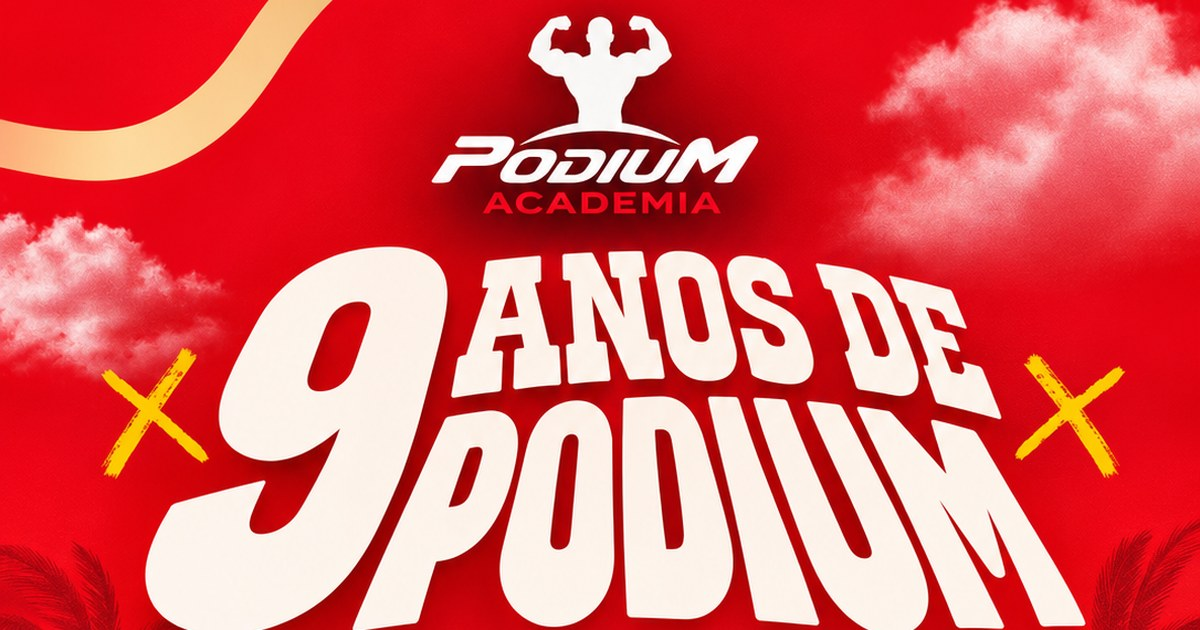
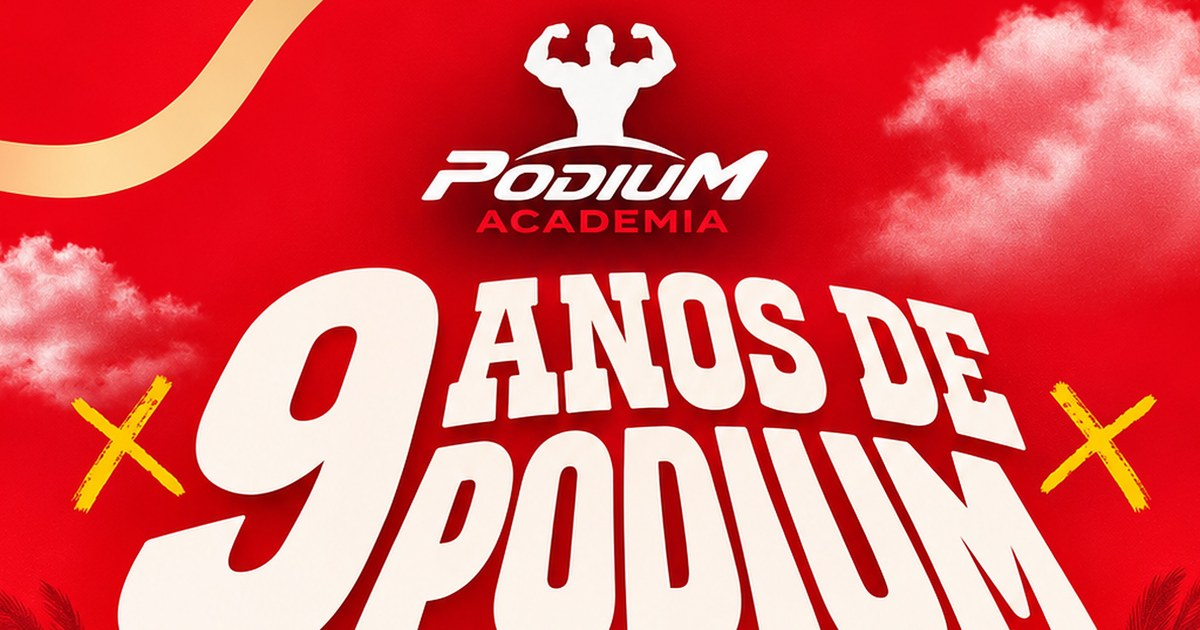
Site baseado no flyer escolhido (calendário)
Claude-Session: https://claude.ai/code/session_01DKUzZ6giRhbeCqJDBAXXs6

diff --git a/public/index.html b/public/index.html
@@ -4,188 +4,208 @@
 <meta charset="utf-8">
 <meta name="viewport" content="width=device-width,initial-scale=1,viewport-fit=cover">
 <title>9 anos de Podium</title>
-<meta name="description" content="Confraternização de fim de ano da Podium Academia. Domingo, 13 de dezembro, a partir das 14h, no Boa Vista (BH). Garanta seu ingresso.">
-<meta name="theme-color" content="#B5121B">
-<meta property="og:title" content="9 anos de Podium">
-<meta property="og:description" content="Confraternização de fim de ano da Podium Academia. Domingo, 13 de dezembro, a partir das 14h. Garanta seu ingresso!">
+<meta name="description" content="Confraternização de fim de ano da Podium Academia. Domingo, 13 de dezembro, a partir das 14h, no Boa Vista (BH). Churrasco + tropeiro e DJ. Garanta seu ingresso.">
+<meta name="theme-color" content="#D20410">
+<meta property="og:title" content="9 anos de Podium · Vendas abertas!">
+<meta property="og:description" content="Confraternização de fim de ano da Podium Academia. Domingo, 13 de dezembro, 14h, Boa Vista (BH). Garanta seu ingresso!">
 <meta property="og:image" content="https://podium9anos.netlify.app/assets/og.jpg">
 <link rel="icon" href="/assets/logo-sm.png">
 <link rel="preconnect" href="https://fonts.googleapis.com"><link rel="preconnect" href="https://fonts.gstatic.com" crossorigin>
-<link href="https://fonts.googleapis.com/css2?family=Bricolage+Grotesque:opsz,wdth,wght@12..96,75..100,300..800&display=swap" rel="stylesheet">
+<link href="https://fonts.googleapis.com/css2?family=Titan+One&family=Montserrat:ital,wght@0,500;0,600;0,700;0,800;0,900;1,800;1,900&display=swap" rel="stylesheet">
+<link rel="preload" as="image" href="/assets/flyer-topo.jpg">
 <link rel="stylesheet" href="/assets/app.css">
 <link rel="stylesheet" href="/assets/festa.css">
 <style>
 body.festa{
-  --rubi:#B5121B; --rubi2:#E0141F; --carvao:#231815; --giz:#F1EFEB; --po:#D9D4CE; --ouro:#F2B33D; --texto2:#5C524C;
-  background:var(--giz); color:var(--carvao);
-  font-family:"Bricolage Grotesque",system-ui,sans-serif; font-optical-sizing:auto;
+  --red:#D20410; --red-dk:#8E0610; --cream:#FFF3E2; --ink:#16110E; --yellow:#FFC72C;
+  /* nomes usados pelo formulário (festa.css) */
+  --rubi:#D20410; --carvao:#16110E; --giz:#FFF3E2; --po:#E7D7C2; --texto2:#5a4a40;
+  background:#A80309; color:var(--cream); font-family:Montserrat,Arial,sans-serif;
 }
-.cond{font-variation-settings:"wdth" 75;font-weight:800;letter-spacing:-.01em}
-:focus-visible{outline:3px solid var(--ouro);outline-offset:3px}
+.mx{font-family:Montserrat,sans-serif;font-weight:900;font-style:italic;text-transform:uppercase}
+.mb{font-family:Montserrat,sans-serif;font-weight:800;text-transform:uppercase}
+.tt{font-family:"Titan One",sans-serif;font-weight:400}
+:focus-visible{outline:3px solid var(--yellow);outline-offset:3px}
 
-/* abertura: o 9 conta de 1 a 9 */
-#intro{position:fixed;inset:0;z-index:100;background:var(--rubi);color:var(--giz);display:grid;place-items:center;cursor:pointer}
-#intro .in{display:flex;flex-direction:column;align-items:center;gap:6px}
-#intro img{width:120px;opacity:0;animation:fade .5s ease .1s forwards}
-#intro .num{font-size:min(56vw,300px);line-height:.85}
-#intro .sub{font-size:20px;opacity:0;animation:fade .5s ease 1.1s forwards}
-#intro .skip{position:absolute;top:max(14px,env(safe-area-inset-top));right:16px;font-size:13px;opacity:.75}
+/* abertura */
+#intro{position:fixed;inset:0;z-index:100;display:grid;place-items:center;cursor:pointer;background:radial-gradient(ellipse at 50% 40%,#F10717,#B6040D 75%)}
+#intro .stack{display:flex;flex-direction:column;align-items:center;gap:16px}
+#intro img{width:min(56vw,230px);opacity:0;transform:scale(.6);animation:pop .8s cubic-bezier(.2,1.6,.4,1) .2s forwards}
+#intro .pill{background:var(--ink);color:var(--cream);padding:9px 24px;border-radius:999px;font-size:clamp(18px,5.4vw,24px);opacity:0;animation:fade .4s ease .9s forwards}
+#intro .skip{position:absolute;top:max(14px,env(safe-area-inset-top));right:16px;font-size:12px;opacity:.75}
 #intro.out{animation:lift .7s cubic-bezier(.7,0,.2,1) forwards}
+@keyframes pop{to{opacity:1;transform:none}}
 @keyframes fade{to{opacity:1}}
-@keyframes lift{to{transform:translateY(-100%)}}
+@keyframes lift{to{transform:translateY(-110%)}}
 
-/* coluna */
-.col{max-width:560px;margin:0 auto;background:var(--giz);min-height:100vh}
-@media (min-width:600px){body.festa{background:#E6E3DE}.col{box-shadow:0 0 0 1px var(--po)}}
+/* página */
+.col{max-width:560px;margin:0 auto;position:relative;overflow:hidden;background:radial-gradient(ellipse 130% 55% at 50% 30%,#EE0617 0%,#D20410 55%,#B6040D 100%)}
+.hero{display:block;width:100%;height:auto;-webkit-mask-image:linear-gradient(#000 90%,transparent);mask-image:linear-gradient(#000 90%,transparent)}
+.palm{position:absolute;width:46%;opacity:.3;pointer-events:none}
+.pad{position:relative;padding:0 18px}
+.band{display:block;width:fit-content;margin:4px auto 0;background:linear-gradient(90deg,#F2DEC6,#FFF3E2 30%,#FFF3E2 70%,#F2DEC6);color:var(--ink);border-radius:8px;padding:9px 16px 8px;font-size:clamp(12.5px,3.8vw,18px);white-space:nowrap;box-shadow:0 4px 14px rgba(70,0,5,.3)}
 
-/* topo vermelho + pódio */
-.hero{background:var(--rubi);color:var(--giz);padding:22px 20px 0;overflow:hidden;position:relative}
-.hero .logo{width:118px}
-.tit{margin:26px 0 0;font-weight:800}
-.tit .nove{display:block;font-size:min(88vw,470px);line-height:.74;letter-spacing:-.04em;margin-left:-.04em;color:var(--giz)}
-.tit .resto{display:block;font-size:min(16vw,84px);line-height:.9;max-width:5.2em;margin-top:.08em}
-.lead{font-size:19px;line-height:1.45;margin-top:18px;max-width:30ch;color:rgba(241,239,235,.92)}
-.lead strong{font-weight:700;color:var(--giz)}
-.cta{display:block;width:100%;margin-top:24px;background:var(--giz);color:var(--rubi);border:0;border-radius:6px;padding:17px 18px;font:inherit;font-weight:800;font-size:19px;cursor:pointer;text-decoration:none;text-align:center;-webkit-tap-highlight-color:transparent;transition:transform .12s}
-.cta:active{transform:scale(.98)}
-.cta svg{width:22px;height:22px;flex:0 0 auto}
-.cta-note{font-size:14px;margin-top:10px;color:rgba(241,239,235,.78)}
+.info{display:grid;grid-template-columns:minmax(104px,34%) 1fr;gap:14px;margin-top:22px;align-items:start}
+.cal{background:var(--cream);color:var(--ink);border-radius:14px;overflow:hidden;text-align:center;box-shadow:0 8px 22px rgba(60,0,4,.35)}
+.cal .m{background:var(--ink);color:var(--cream);font-size:clamp(11px,3.4vw,17px);padding:8px 2px}
+.cal .d{font-size:clamp(52px,17vw,92px);line-height:1;color:var(--red);padding-top:4px}
+.cal .w{font-size:clamp(11px,3.3vw,15px);padding:0 4px 12px}
+.det{display:flex;flex-direction:column;gap:11px;min-width:0}
+.pill{display:inline-block;background:var(--ink);color:var(--cream);border-radius:999px;padding:8px 14px 7px;font-size:clamp(14px,4.6vw,26px);line-height:1;white-space:nowrap;align-self:flex-start;box-shadow:0 6px 16px rgba(40,0,0,.35)}
+.it{display:flex;align-items:center;gap:8px;font-weight:700;font-size:clamp(13px,3.9vw,17px);line-height:1.2}
+.ico{width:24px;height:24px;flex:0 0 auto;stroke:var(--yellow);fill:none;stroke-width:1.9;stroke-linecap:round;stroke-linejoin:round}
 
-.podio{display:grid;grid-template-columns:1fr 1.12fr 1fr;align-items:end;gap:6px;margin:44px -20px 0;padding:0 20px}
-.deg{border-radius:4px 4px 0 0;padding:14px 12px 0;transform-origin:bottom;animation:rise .8s cubic-bezier(.2,.9,.2,1) both}
-.deg p{font-weight:700;font-size:15px;line-height:1.2}
-.d2{background:var(--carvao);color:var(--giz);height:118px;animation-delay:3.15s}
-.d1{background:var(--giz);color:var(--carvao);height:176px;animation-delay:3s;position:relative}
-.d3{background:var(--carvao);color:var(--giz);height:88px;animation-delay:3.3s}
-.medalha{position:absolute;left:50%;top:-58px;transform:translateX(-50%);width:44px}
-@keyframes rise{from{transform:scaleY(0)}to{transform:scaleY(1)}}
-body.skip-intro .deg{animation-delay:.2s}
+.bar{margin-top:24px;background:var(--ink);border-radius:14px;padding:16px 14px}
+.bar h2{font-size:14px;letter-spacing:.06em;color:rgba(255,243,226,.75);text-align:center;margin-bottom:10px;font-weight:700}
+.cd{display:grid;grid-template-columns:repeat(4,minmax(0,1fr));text-align:center}
+.cd b{display:block;font-family:"Titan One",sans-serif;font-weight:400;font-size:clamp(26px,8vw,36px);line-height:1;color:var(--yellow)}
+.cd span{font-size:12px;font-weight:700;color:rgba(255,243,226,.8)}
 
-/* parte em giz */
-.info{padding:30px 20px 8px}
-.falta{font-size:34px;line-height:1.05}
-.falta span{color:var(--rubi)}
-.onde{margin-top:22px;font-size:17px;line-height:1.45}
-.onde a{color:var(--rubi);font-weight:700}
-.track{font-size:15px;margin-top:18px;color:var(--texto2)}
-.track a{color:var(--carvao);font-weight:700}
+.local{display:flex;gap:12px;align-items:center;margin-top:12px;padding:13px 14px;background:var(--cream);color:var(--ink);border-radius:14px;text-decoration:none}
+.local .ico{stroke:var(--red);width:28px;height:28px}
+.local b{display:block;font-size:16px}
+.local span{font-size:14px;font-weight:600}
+.local small{display:block;color:var(--red);font-weight:800;font-size:13px;margin-top:2px}
 
-/* ingressos */
-#ingressos{padding:26px 20px 30px}
-#ingressos.reveal{animation:show .5s ease}
-@keyframes show{from{opacity:0}to{opacity:1}}
-.h2{font-size:52px;line-height:.95}
-.precos{list-style:none;margin:20px 0 26px;border-top:2px solid var(--carvao)}
-.precos li{display:flex;justify-content:space-between;align-items:baseline;gap:12px;padding:14px 0;border-bottom:1px solid var(--po)}
-.precos span{font-size:17px}
-.precos b{font-size:32px;font-weight:800;font-variation-settings:"wdth" 75;white-space:nowrap}
-.precos li:last-child b{color:var(--rubi)}
-.passos{list-style:none;counter-reset:p;display:flex;flex-direction:column;gap:14px;margin-bottom:28px}
-.passos li{counter-increment:p;display:grid;grid-template-columns:30px 1fr;gap:10px;font-size:16px;line-height:1.45}
-.passos li::before{content:counter(p);font-weight:800;font-variation-settings:"wdth" 75;font-size:24px;line-height:1;color:var(--rubi)}
-.nota{font-size:15px;color:var(--texto2);margin:-12px 0 26px}
+.cta{display:block;width:100%;margin-top:22px;border:0;border-radius:14px;background:var(--cream);color:var(--red);
+  font-family:Montserrat,sans-serif;font-weight:900;font-style:italic;font-size:clamp(18px,5.6vw,24px);line-height:1.1;text-transform:uppercase;text-decoration:none;padding:17px 12px;cursor:pointer;
+  box-shadow:0 6px 0 var(--red-dk),0 12px 24px rgba(60,0,4,.35);animation:nudge 2.6s ease-in-out 3s infinite;-webkit-tap-highlight-color:transparent}
+.cta:active{transform:translateY(4px);box-shadow:0 2px 0 var(--red-dk)}
+.cta small{display:block;font-style:normal;font-weight:700;font-size:13px;text-transform:none;color:var(--ink);margin-top:4px}
+@keyframes nudge{0%,88%,100%{transform:none}92%{transform:rotate(-1.5deg) scale(1.02)}96%{transform:rotate(1.5deg) scale(1.02)}}
+.vem{text-align:center;margin-top:16px;font-size:clamp(15px,4.6vw,20px)}
+.track{text-align:center;font-size:14px;font-weight:600;margin-top:10px}
+.track a{color:var(--cream)}
 
-footer{background:var(--carvao);color:var(--giz);padding:34px 20px calc(36px + env(safe-area-inset-bottom))}
-footer img{width:120px;margin-bottom:16px}
-footer p{font-size:15px;line-height:1.55;color:rgba(241,239,235,.85)}
-footer a{display:inline-block;margin-top:14px;color:var(--giz);font-weight:700;text-underline-offset:3px}
+/* ingressos (aparece depois do clique) */
+#ingressos{position:relative;padding:28px 18px 8px}
+#ingressos.reveal{animation:rise .6s cubic-bezier(.16,1,.3,1)}
+@keyframes rise{from{opacity:0;transform:translateY(24px)}to{opacity:1;transform:none}}
+.h2t{font-family:"Titan One",sans-serif;font-weight:400;font-size:clamp(40px,12vw,54px);line-height:1;text-align:center;color:var(--cream);text-shadow:0 4px 0 var(--red-dk)}
+.precos{margin:16px 0 18px;background:var(--ink);border-radius:14px;padding:16px 6px;display:grid;grid-template-columns:repeat(3,minmax(0,1fr));gap:4px;text-align:center}
+.precos span{display:block;font-size:12.5px;font-weight:700;color:rgba(255,243,226,.8)}
+.precos b{display:block;font-family:"Titan One",sans-serif;font-weight:400;font-size:clamp(17px,5.2vw,26px);color:var(--yellow);white-space:nowrap;margin-top:2px}
+.passos{list-style:none;counter-reset:p;display:flex;flex-direction:column;gap:12px;margin-bottom:22px}
+.passos li{counter-increment:p;display:grid;grid-template-columns:28px 1fr;gap:10px;font-size:15px;font-weight:600;line-height:1.4}
+.passos li::before{content:counter(p);width:26px;height:26px;border-radius:50%;background:var(--yellow);color:var(--ink);display:grid;place-items:center;font-weight:900;font-size:14px}
+#ingressos .h3{font-family:Montserrat,sans-serif;font-weight:900;font-style:italic;font-variation-settings:normal;text-transform:uppercase;font-size:20px}
+
+.dj{display:block;width:100%;height:auto;margin-top:26px;-webkit-mask-image:linear-gradient(transparent,#000 35%);mask-image:linear-gradient(transparent,#000 35%)}
+footer{background:var(--ink);color:var(--cream);text-align:center;padding:28px 18px calc(36px + env(safe-area-inset-bottom))}
+footer img{width:140px;margin:0 auto 14px}
+footer p{font-weight:600;font-size:14px;line-height:1.55;color:rgba(255,243,226,.85)}
+footer a{display:inline-block;margin-top:14px;background:var(--cream);color:var(--ink);border-radius:999px;padding:10px 18px;font-weight:800;font-size:14px;text-decoration:none}
 
 .sticky-cta{position:fixed;left:0;right:0;bottom:0;z-index:30;padding:10px 16px calc(12px + env(safe-area-inset-bottom));transform:translateY(130%);transition:transform .3s}
 .sticky-cta.show{transform:none}
-.sticky-cta .cta{max-width:528px;margin:0 auto;background:var(--rubi);color:var(--giz);box-shadow:0 10px 30px rgba(35,24,21,.3)}
-
-@media (prefers-reduced-motion:reduce){#intro *,.deg{animation-duration:.01s!important;animation-delay:0s!important}}
+.sticky-cta .cta{max-width:528px;margin:0 auto;font-size:17px;padding:14px 10px;animation:none}
+@media (prefers-reduced-motion:reduce){#intro *,.cta{animation-duration:.01s!important;animation-delay:0s!important;animation-iteration-count:1!important}}
 </style>
 </head>
 <body class="festa">
 
 <div id="intro" aria-hidden="true">
-  <div class="in">
-    <img src="/assets/logo-cream.png" alt="">
-    <div class="num cond" id="introNum">1</div>
-    <div class="sub">anos de Podium</div>
+  <div class="stack">
+    <img src="/assets/logo.png" alt="">
+    <div class="pill mx">13 DEZ • 14H</div>
   </div>
   <div class="skip">toque para pular</div>
 </div>
 
 <main class="col">
-  <header class="hero">
-    <img class="logo" src="/assets/logo-cream.png" alt="Podium Academia">
-    <h1 class="tit cond"><span class="nove">9</span><span class="resto">anos de Podium</span></h1>
-    <p class="lead">Nossa confraternização de fim de ano é no <strong>domingo, 13 de dezembro</strong>, a partir das 14h, no Boa Vista. Vem comemorar com a gente.</p>
-    <button class="cta" id="cta" type="button">Quero garantir meus ingressos!</button>
-    <p class="cta-note">Os valores e as condições aparecem no próximo passo.</p>
+  <img class="palm" src="/assets/coqueiro.svg" alt="" aria-hidden="true" style="left:-24%;top:440px">
+  <img class="palm" src="/assets/coqueiro.svg" alt="" aria-hidden="true" style="right:-24%;top:400px;transform:scaleX(-1)">
 
-    <div class="podio" role="list" aria-label="O que vai ter">
-      <div class="deg d2" role="listitem"><p>DJ a tarde toda</p></div>
-      <div class="deg d1" role="listitem">
-        <svg class="medalha" viewBox="0 0 44 60" aria-hidden="true"><path d="M12 0h8l6 22h-8zM24 0h8l-6 22h-8z" fill="#E0141F"/><circle cx="22" cy="40" r="18" fill="#F2B33D"/><circle cx="22" cy="40" r="13" fill="none" stroke="#C98A12" stroke-width="2"/><text x="22" y="47" text-anchor="middle" font-family="Bricolage Grotesque" font-weight="800" font-size="20" fill="#7A4A00">9</text></svg>
-        <p>Churrasco e tropeiro</p>
+  <h1 style="margin:0"><img class="hero" src="/assets/flyer-topo.jpg" alt="9 anos de Podium Academia" width="1240" height="735"></h1>
+
+  <div class="pad">
+    <p class="band mb">Confraternização de fim de ano</p>
+
+    <div class="info">
+      <div class="cal"><div class="m mb">Dezembro</div><div class="d tt">13</div><div class="w mb">Domingo<br>às 14h</div></div>
+      <div class="det">
+        <span class="pill mx">Vendas abertas!</span>
+        <div class="it"><svg class="ico" viewBox="0 0 24 24"><path d="M12 22s7-7.2 7-12.5A7 7 0 0 0 5 9.5C5 14.8 12 22 12 22z"/><circle cx="12" cy="9.5" r="2.5"/></svg>Boa Vista · BH</div>
+        <div class="it"><svg class="ico" viewBox="0 0 24 24"><path d="M4 11h16a8 8 0 0 1-16 0z"/><path d="M8 19l-2 3M16 19l2 3"/><path d="M9 3c1 1.5-1 2.5 0 4M13 3c1 1.5-1 2.5 0 4M17 4c.8 1.2-.8 2 0 3"/></svg>Churrasco + tropeiro</div>
+        <div class="it"><svg class="ico" viewBox="0 0 24 24"><path d="M3 18v-6a9 9 0 0 1 18 0v6"/><path d="M21 19a2 2 0 0 1-2 2h-1v-6h3zM3 19a2 2 0 0 0 2 2h1v-6H3z"/></svg>DJ a tarde toda</div>
+        <div class="it"><svg class="ico" viewBox="0 0 24 24"><path d="M8 2h8l-1 7a3 3 0 0 1-6 0z"/><path d="M12 12v8M8 22h8"/></svg>Leve sua bebida favorita</div>
       </div>
-      <div class="deg d3" role="listitem"><p>Traga sua bebida</p></div>
     </div>
-  </header>
 
-  <section class="info">
-    <p class="falta cond" id="falta">Faltam poucos dias.</p>
-    <p class="onde">Rua Guimarânia, 221, Boa Vista, Belo Horizonte.<br><a id="mapLink" target="_blank" rel="noopener">Abrir no mapa</a></p>
+    <div class="bar">
+      <h2>Faltam</h2>
+      <div class="cd">
+        <div><b id="cdD">--</b><span>dias</span></div>
+        <div><b id="cdH">--</b><span>horas</span></div>
+        <div><b id="cdM">--</b><span>min</span></div>
+        <div><b id="cdS">--</b><span>seg</span></div>
+      </div>
+    </div>
+
+    <a class="local" id="mapLink" target="_blank" rel="noopener">
+      <svg class="ico" viewBox="0 0 24 24"><path d="M12 22s7-7.2 7-12.5A7 7 0 0 0 5 9.5C5 14.8 12 22 12 22z"/><circle cx="12" cy="9.5" r="2.5"/></svg>
+      <div><b>Rua Guimarânia, 221</b><span>Boa Vista, Belo Horizonte</span><small>Abrir no mapa</small></div>
+    </a>
+
+    <button class="cta" id="cta" type="button">Quero garantir meus ingressos!<small>ver valores e condições</small></button>
+    <p class="vem mx">Vem comemorar com a gente!</p>
     <p class="track" id="trackLink"></p>
-  </section>
+  </div>
 
   <section id="ingressos" class="hide">
-    <h2 class="h2 cond">Ingressos</h2>
-    <ul class="precos">
-      <li><span>Inteira</span><b>R$ 99,90</b></li>
-      <li><span>De 11 a 15 anos</span><b>R$ 50,00</b></li>
-      <li><span>Até 10 anos</span><b>Não paga</b></li>
-    </ul>
+    <h2 class="h2t">Ingressos</h2>
+    <div class="precos">
+      <div><span>Inteira</span><b><small style="font-size:.6em">R$</small> 99,90</b></div>
+      <div><span>11 a 15 anos</span><b><small style="font-size:.6em">R$</small> 50,00</b></div>
+      <div><span>Até 10 anos</span><b>Grátis</b></div>
+    </div>
     <ol class="passos">
       <li>Coloque o nome completo de cada pessoa. Cada uma recebe o próprio QR Code de entrada.</li>
       <li>Pague por Pix ou cartão.</li>
       <li>A equipe confere o pagamento e manda os ingressos no seu WhatsApp em até 24h.</li>
     </ol>
-    <p class="nota">Crianças até 10 anos não pagam, mas entram na lista com nome.</p>
 
-  <div id="comprar">
-    <div class="card" id="buy">
-      <div class="steps"><i class="on"></i><i></i><i></i></div>
+    <div id="comprar">
+      <div class="card" id="buy">
+        <div class="steps"><i class="on"></i><i></i><i></i></div>
 
-      <div id="step1">
-        <div class="h3">Quem vai na festa?</div>
-        <p class="muted" style="margin-bottom:14px">Coloque o <b>nome completo</b> de cada pessoa e a faixa de idade.</p>
-        <div id="people"></div>
-        <button class="btn btn-ghost btn-block" id="addPerson" type="button">+ Adicionar acompanhante</button>
-        <div class="totalbar"><span class="muted">Total</span><b id="total1">R$ 0,00</b></div>
-        <button class="btn btn-red btn-block" id="next1" type="button">Continuar</button>
-      </div>
-
-      <div id="step2" class="hide">
-        <div class="h3">Para onde mandamos?</div>
-        <p class="muted" style="margin-bottom:14px">Os ingressos chegam no seu WhatsApp.</p>
-        <div class="field"><label for="bName">Seu nome completo</label><input class="input" id="bName" autocomplete="name"></div>
-        <div class="field"><label for="bWa">WhatsApp com DDD</label><input class="input" id="bWa" inputmode="tel" autocomplete="tel" placeholder="(31) 9 9999-9999"></div>
-        <div class="field"><label for="bEmail">E-mail <span class="muted" style="text-transform:none">(opcional)</span></label><input class="input" id="bEmail" type="email" inputmode="email" autocomplete="email"></div>
-        <label>Forma de pagamento</label>
-        <div class="pay" id="payPick">
-          <button type="button" data-m="pix" class="on">Pix<small>na hora</small></button>
-          <button type="button" data-m="cartao">Cartão<small>crédito ou débito</small></button>
+        <div id="step1">
+          <div class="h3">Quem vai na festa?</div>
+          <p class="muted" style="margin-bottom:14px">Coloque o <b>nome completo</b> de cada pessoa e a faixa de idade.</p>
+          <div id="people"></div>
+          <button class="btn btn-ghost btn-block" id="addPerson" type="button">+ Adicionar acompanhante</button>
+          <div class="totalbar"><span class="muted">Total</span><b id="total1">R$ 0,00</b></div>
+          <button class="btn btn-red btn-block" id="next1" type="button">Continuar</button>
         </div>
-        <div class="totalbar"><span class="muted">Total</span><b id="total2">R$ 0,00</b></div>
-        <div class="row" style="gap:8px">
-          <button class="btn btn-ghost" id="back2" type="button">Voltar</button>
-          <button class="btn btn-red" style="flex:1" id="next2" type="button">Ir para o pagamento</button>
-        </div>
-      </div>
 
-      <div id="step3" class="hide"></div>
+        <div id="step2" class="hide">
+          <div class="h3">Para onde mandamos?</div>
+          <p class="muted" style="margin-bottom:14px">Os ingressos chegam no seu WhatsApp.</p>
+          <div class="field"><label for="bName">Seu nome completo</label><input class="input" id="bName" autocomplete="name"></div>
+          <div class="field"><label for="bWa">WhatsApp com DDD</label><input class="input" id="bWa" inputmode="tel" autocomplete="tel" placeholder="(31) 9 9999-9999"></div>
+          <div class="field"><label for="bEmail">E-mail <span class="muted" style="text-transform:none">(opcional)</span></label><input class="input" id="bEmail" type="email" inputmode="email" autocomplete="email"></div>
+          <label>Forma de pagamento</label>
+          <div class="pay" id="payPick">
+            <button type="button" data-m="pix" class="on">Pix<small>na hora</small></button>
+            <button type="button" data-m="cartao">Cartão<small>crédito ou débito</small></button>
+          </div>
+          <div class="totalbar"><span class="muted">Total</span><b id="total2">R$ 0,00</b></div>
+          <div class="row" style="gap:8px">
+            <button class="btn btn-ghost" id="back2" type="button">Voltar</button>
+            <button class="btn btn-red" style="flex:1" id="next2" type="button">Ir para o pagamento</button>
+          </div>
+        </div>
+
+        <div id="step3" class="hide"></div>
+      </div>
     </div>
-  </div>
   </section>
 
+  <img class="dj" src="/assets/flyer-dj.jpg" alt="" aria-hidden="true" width="1240" height="246" loading="lazy">
   <footer>
-    <img src="/assets/logo-cream.png" alt="Podium Academia">
-    <p>9 anos de Podium, confraternização de fim de ano.<br>Domingo, 13 de dezembro, a partir das 14h.<br>Rua Guimarânia, 221, Boa Vista, Belo Horizonte.</p>
-    <a id="waContact" target="_blank" rel="noopener">Dúvidas? Fale com a gente no WhatsApp (31) 99622-1198</a>
+    <img src="/assets/logo.png" alt="Podium Academia">
+    <p>9 anos de Podium · Confraternização de fim de ano<br>Domingo, 13 de dezembro, a partir das 14h<br>Rua Guimarânia, 221, Boa Vista, Belo Horizonte</p>
+    <a id="waContact" target="_blank" rel="noopener">Mais informações: (31) 99622-1198</a>
   </footer>
 </main>
 
@@ -194,41 +214,35 @@ footer a{display:inline-block;margin-top:14px;color:var(--giz);font-weight:700;t
 <script src="/vendor/qrcode.js"></script>
 <script src="/assets/app.js"></script>
 <script>
-// ---------- Abertura: o 9 conta de 1 a 9 ----------
+// ---------- Abertura ----------
 (function(){
-  const intro = $("#intro"), num = $("#introNum");
+  const intro = $("#intro");
   const reduce = matchMedia("(prefers-reduced-motion: reduce)").matches;
-  const skipNow = reduce || location.hash === "#ingressos" || location.hash === "#comprar";
+  if (reduce || location.hash === "#ingressos" || location.hash === "#comprar") { intro.remove(); return; }
   let gone = false;
   const close = () => { if (gone) return; gone = true; intro.classList.add("out"); setTimeout(() => intro.remove(), 750); };
-  intro.addEventListener("click", () => { document.body.classList.add("skip-intro"); close(); });
-  if (skipNow) { document.body.classList.add("skip-intro"); intro.remove(); return; }
-  let n = 1;
-  const t = setInterval(() => { n++; num.textContent = n; if (n >= 9) clearInterval(t); }, 110);
-  setTimeout(close, 2300);
+  intro.addEventListener("click", close);
+  setTimeout(close, 2000);
 })();
 
-// ---------- Quanto falta ----------
+// ---------- Contagem regressiva ----------
 (function(){
   const target = new Date(EVENT.dateISO).getTime();
-  const plural = (n, s, p) => `${n} ${n === 1 ? s : p}`;
+  const pad = (n) => String(n).padStart(2, "0");
   function tick(){
-    const s = Math.floor((target - Date.now()) / 1000);
-    const el = $("#falta");
-    if (s <= 0) { el.innerHTML = "É hoje! A festa começa às 14h."; return; }
-    const d = Math.floor(s / 86400), h = Math.floor((s % 86400) / 3600), m = Math.floor((s % 3600) / 60);
-    el.innerHTML = d > 0
-      ? `Faltam <span>${plural(d, "dia", "dias")}</span> e ${plural(h, "hora", "horas")} para a festa.`
-      : `Faltam <span>${plural(h, "hora", "horas")}</span> e ${plural(m, "minuto", "minutos")} para a festa.`;
+    let s = Math.max(0, Math.floor((target - Date.now()) / 1000));
+    $("#cdD").textContent = Math.floor(s / 86400); s %= 86400;
+    $("#cdH").textContent = pad(Math.floor(s / 3600)); s %= 3600;
+    $("#cdM").textContent = pad(Math.floor(s / 60)); $("#cdS").textContent = pad(s % 60);
   }
-  tick(); setInterval(tick, 30000);
+  tick(); setInterval(tick, 1000);
 })();
 
 // ---------- Botão "quero garantir": revela valores e compra ----------
 let opened = false;
 function openTickets(scroll = true){
   const sec = $("#ingressos");
-  if (!opened) { opened = true; sec.classList.remove("hide"); sec.classList.add("reveal"); $("#cta").classList.add("hide"); $(".cta-note").classList.add("hide"); }
+  if (!opened) { opened = true; sec.classList.remove("hide"); sec.classList.add("reveal"); $("#cta").classList.add("hide"); }
   $("#stickyCta").classList.remove("show");
   if (scroll) setTimeout(() => sec.scrollIntoView({ behavior: "smooth", block: "start" }), 60);
 }
